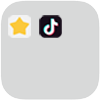
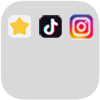
App Updates (version_014): [MOBILE] Added Instagram app to project folder, fixed background overlay, added insta link.

Changed region(s): [[0.69, 0.12, 0.96, 0.39]]

diff --git a/scripts/main.js b/scripts/main.js
@@ -202,6 +202,7 @@ let fiveG = document.getElementById('fiveG');
 let mobileBattery = document.getElementById('mobile-battery');
 let appTikTok = document.getElementById('mobile-apps-tiktok');
 let appBlog = document.getElementById('mobile-apps-blog');
+let appInstagram = document.getElementById('mobile-apps-instagram');
 let mobileHeader = document.getElementById('mobile-header');
 
 const exitFolderOverLay = (e) => {
@@ -327,7 +328,7 @@ window.addEventListener('DOMContentLoaded', (e) => {
         };
     });
 
-    // change background on icon project tap
+    // project folder overlay function plus links on apps in folder.
     appProjectIcon.addEventListener('click', (e) => {
         showFolderOverLay();
 
@@ -337,7 +338,9 @@ window.addEventListener('DOMContentLoaded', (e) => {
         appBlog.addEventListener('click', (e) => {
             window.open('https://product-reviews.blog/', '_blank');
         });
-
+        appInstagram.addEventListener('click', (e) => {
+            window.open('https://www.instagram.com/kas_ador/', '_blank');
+        });
         // overlay if clicked, return to main menu
         appProjectOverlay.addEventListener('click', (e) => {
             exitFolderOverLay();

diff --git a/index.html b/index.html
@@ -229,6 +229,10 @@
                         <img src="/images/Mobile/appsMain/Apps_TikTok.png" id="mobile-apps-tiktok" class="mobile-apps"/>
                         <h1 class="mobile-apps-text" id="mobile-apps-tiktok-text">TikTok</h1>
                     </div>
+                    <div id="mobile-folder-apps-wrapper">
+                        <img src="/images/Mobile/appsMain/Apps_Instagram.png" id="mobile-apps-instagram" class="mobile-apps"/>
+                        <h1 class="mobile-apps-text" id="mobile-apps-instagram-text">Instagram</h1>
+                    </div>
                 </div>
             </div>
         </section>

diff --git a/styles/main.css b/styles/main.css
@@ -622,6 +622,19 @@ body {
     top: -59px;
     color: #444;
 }
+#mobile-apps-tiktok-text {
+    top: -58px;
+}
+#mobile-apps-instagram, #mobile-apps-instagram-text {
+    position: relative;
+    left: 50px;
+    bottom: 59px;
+    top: -127.5px;
+    color: #444;
+}
+#mobile-apps-instagram-text {
+    top: -127.5px;
+}
 #mobile-apps-wrapper-square {
     display: flex;
     flex-direction: row;
